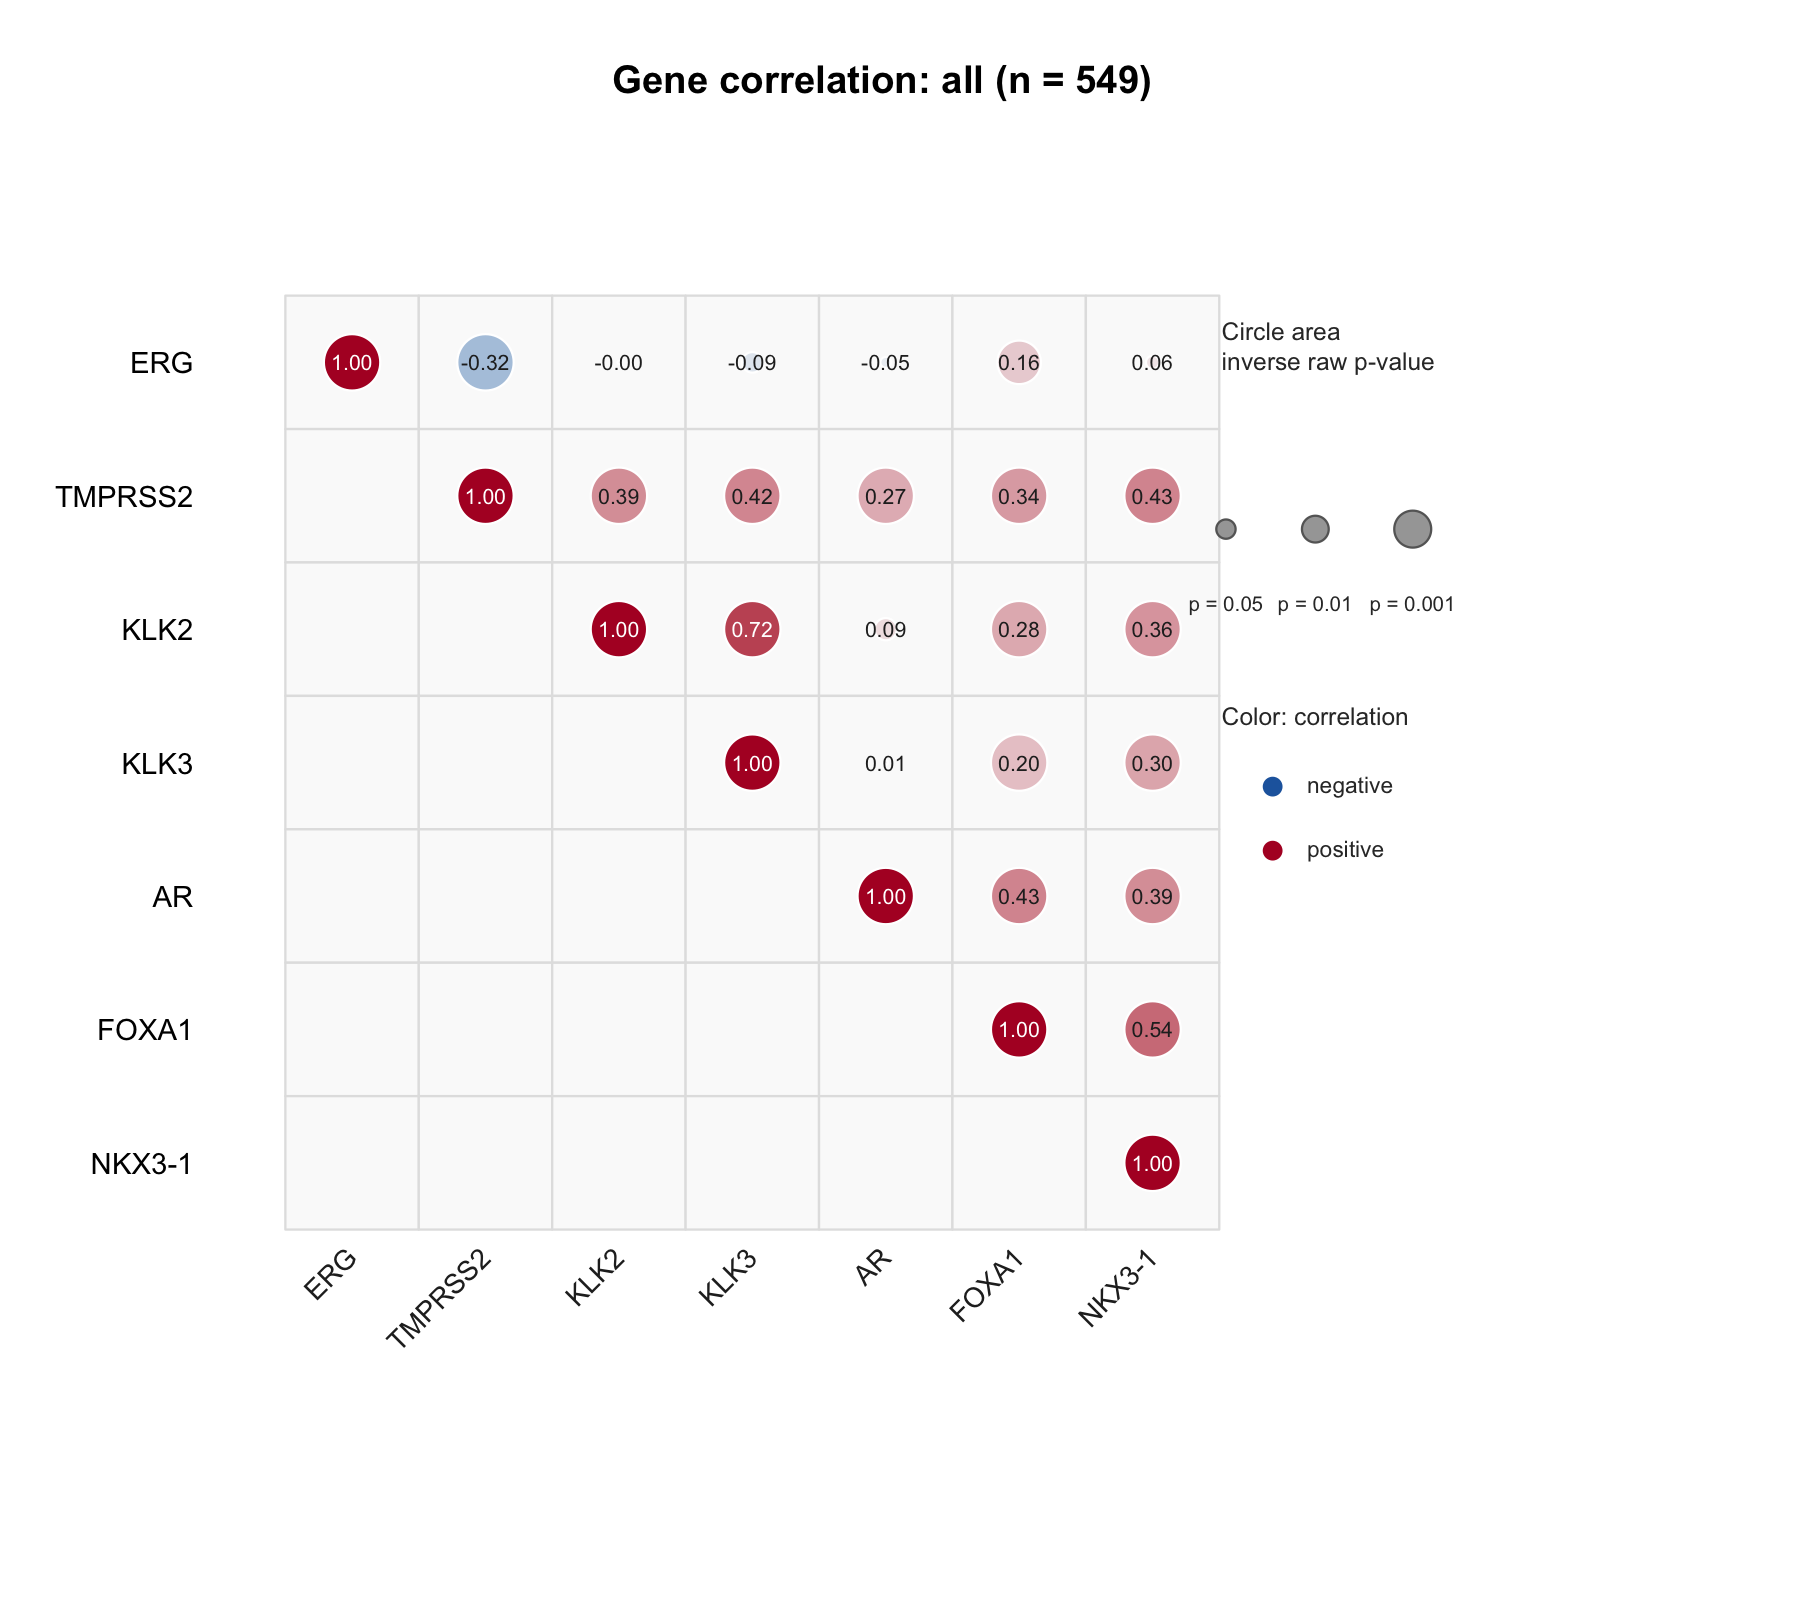
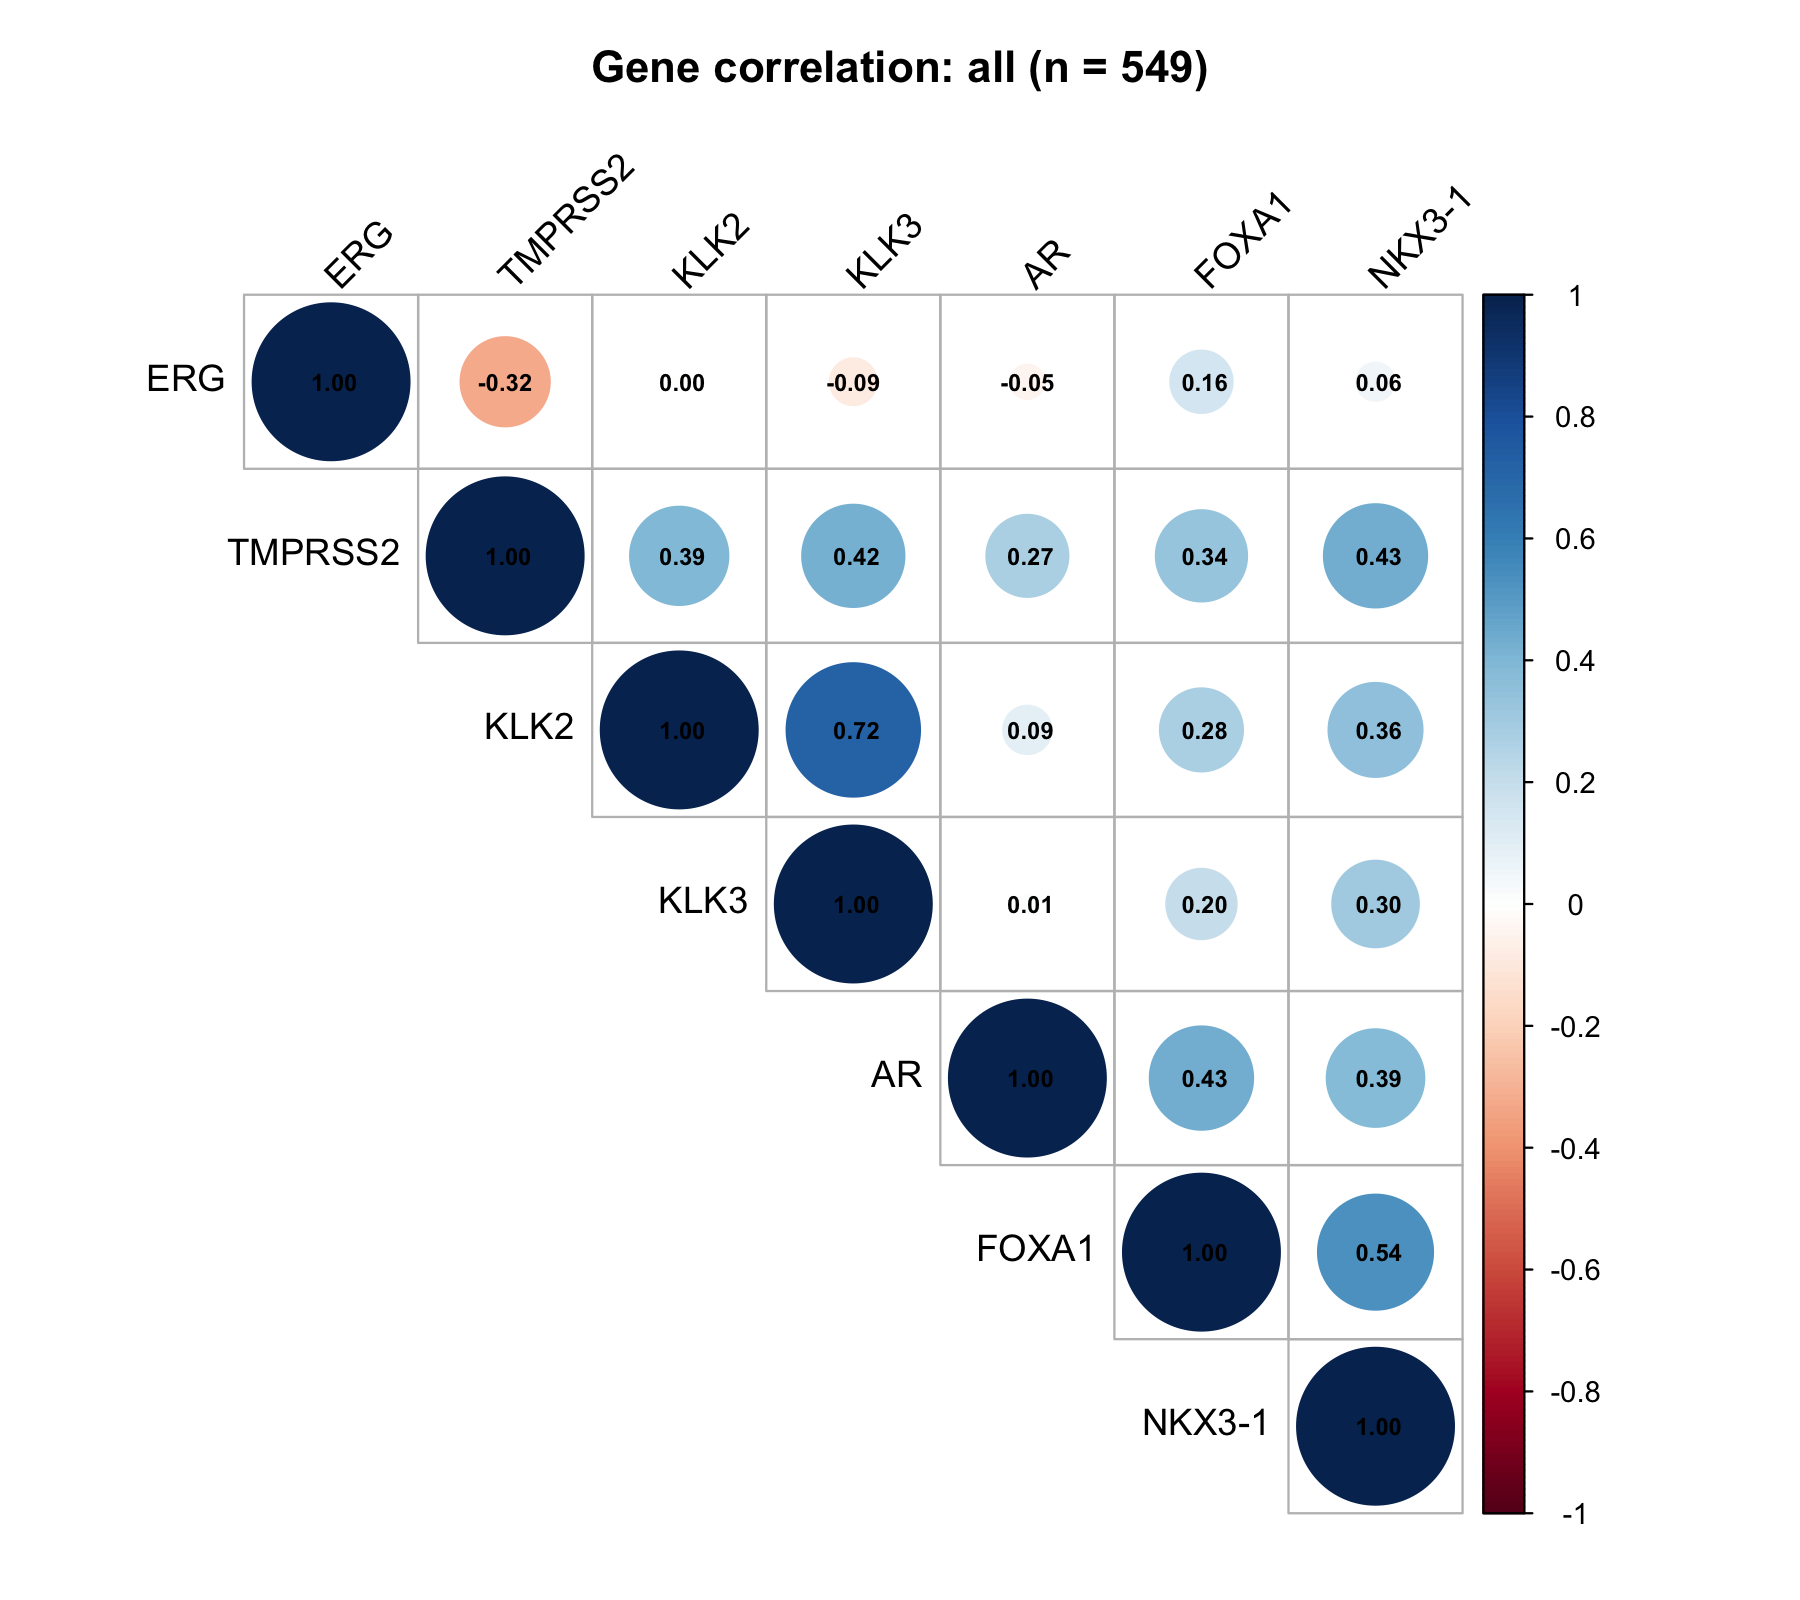
Restore clean correlation bubble output

diff --git a/README.md b/README.md
@@ -6,7 +6,7 @@ This is a standalone application for command-line, HPC, and future OncoChat use.
 
 ## Example output from real data
 
-The figure below was generated with normalized bulk RNA-seq expression from the public [TCGA-PRAD project](https://portal.gdc.cancer.gov/projects/TCGA-PRAD). It shows pooled Spearman correlations across 549 matched samples for a small prostate-expression panel (`AR`, `FOXA1`, `KLK2`, `KLK3`, `NKX3-1`, `TMPRSS2`, and `ERG`). In the bubble panel, circle area encodes inverse raw p-value, color encodes signed correlation, and the printed number is the correlation coefficient. This is a workflow demonstration, not a prognostic or clinical claim.
+The figure below was generated with normalized bulk RNA-seq expression from the public [TCGA-PRAD project](https://portal.gdc.cancer.gov/projects/TCGA-PRAD). It shows pooled Spearman correlations across 549 matched samples for a small prostate-expression panel (`AR`, `FOXA1`, `KLK2`, `KLK3`, `NKX3-1`, `TMPRSS2`, and `ERG`). This is a workflow demonstration, not a prognostic or clinical claim.
 
 | Circle / bubble view (default) | Square view (`--heatmap-style square`) |
 | --- | --- |
@@ -24,13 +24,13 @@ Gene symbols are normalized with L2P by default in the container. Use `--update-
 
 ## Run with Docker
 
-Pull the published AMD64 image:
+Pull the current published AMD64 image:
 
 ```bash
-docker pull ghcr.io/nidap-community/multi-correlation-analysis:v0.1.1
+docker pull ghcr.io/nidap-community/multi-correlation-analysis:v0.1.0
 ```
 
-`v0.1.1` is the reproducible release tag for the selectable circle/bubble and square heatmap styles. `latest` is provided for convenience.
+`v0.1.0`, `latest`, and `52f5c9f` currently resolve to the validated release image. The `v0.1.1` source release candidate adds the selectable circle/bubble and square heatmap styles; its public image will be published only after final container validation.
 
 Build a local AMD64 image:
 
@@ -60,7 +60,7 @@ docker run --rm --platform linux/amd64 \
 
 `--categories all` analyzes every selected sample in addition to any named category. `--samples` accepts a comma-separated list or a file with one sample ID per line. For duplicate gene rows, use `sum` for RNA-seq-style counts and `max` for probe-style microarray data.
 
-`--heatmap-style circle` is the default bubble view: circle area represents inverse raw p-value (smaller circles indicate larger p-values), color represents the signed correlation, and the printed value is the correlation coefficient. Its size key is shown by default; use `--show-significance false` to hide that key without changing the bubbles. Use `--heatmap-style square` for the same data and coefficient labels in a colored-square matrix. Both retain the correlation-based gene ordering. The Benjamini-Hochberg FDR matrix is always written as a separate output.
+`--heatmap-style circle` is the default bubble view: circle area represents correlation magnitude and color represents direction. Use `--heatmap-style square` for the same data and labels in a colored-square matrix. Both retain the correlation-based gene ordering and coefficient labels. The Benjamini-Hochberg FDR matrix is always written as a separate output.
 
 ## Input file formats
 
@@ -139,12 +139,12 @@ singularity run \
 
 ## Container contract
 
-The published `v0.1.1` image targets `linux/amd64`, uses `/data` as read-only input, and uses `/output` as writable output. It passed `container/smoke_test.sh` with the included representative fixture before publication.
+The `v0.1.1` release candidate targets `linux/amd64`, uses `/data` as read-only input, and uses `/output` as writable output. Its public image will be published after `container/smoke_test.sh` completes on the final source revision.
 
 ## Requirements
 
 - R 4.5.x (the container uses `rocker/r-ver:4.5.2`)
-- `corrplot` for the square correlation heatmap; the default p-value bubble plot uses base R graphics
+- `corrplot` for circle/bubble or square correlation heatmaps; a base-R heatmap fallback is available
 - L2P for automatic gene-symbol updates
 - Docker, Apptainer, or Singularity for container execution
 

diff --git a/docs/examples/tcga-prad-7gene-panel.md b/docs/examples/tcga-prad-7gene-panel.md
@@ -40,4 +40,4 @@ Rscript --vanilla entrypoint.R \
   --output-dir results/tcga-prad-seven-gene-panel
 ```
 
-The identical analysis was also run with `--heatmap-style square` into a separate output directory. In the default circle figure, circle area encodes inverse raw p-value, color encodes signed correlation, and the printed number is the correlation coefficient. The README contains the derived pooled-category figure from each run and no input data. The full output contract also includes category-specific correlation, p-value, and Benjamini-Hochberg FDR matrices.
+The identical analysis was also run with `--heatmap-style square` into a separate output directory. The README contains the derived pooled-category figure from each run and no input data. The full output contract also includes category-specific correlation, p-value, and Benjamini-Hochberg FDR matrices.

diff --git a/container/README.md b/container/README.md
@@ -14,4 +14,4 @@ container/smoke_test.sh multi-correlation-analysis:local
 
 The scripts use BuildKit and accept `DOCKER_CA_CERT=/path/to/trusted-root.pem` on HTTPS-inspecting networks. The PEM is mounted only as a build secret and is never retained in the image.
 
-The validated public image is available as `ghcr.io/nidap-community/multi-correlation-analysis:v0.1.1`. It targets `linux/amd64`; `latest` is provided for convenience, while `v0.1.1` is the reproducible release tag.
+The currently validated public image is `ghcr.io/nidap-community/multi-correlation-analysis:v0.1.0`. It targets `linux/amd64`; `latest` is provided for convenience. The `v0.1.1` candidate will be published after final container validation.

diff --git a/CHANGELOG.md b/CHANGELOG.md
@@ -3,7 +3,6 @@
 ## 0.1.1 — 2026-10-25
 
 - Adds a selectable correlation-heatmap style: the circle/bubble view is now the default, and `--heatmap-style square` retains the colored-square alternative.
-- In the default circle/bubble view, circle area now encodes inverse raw p-value, color encodes signed correlation, and printed labels retain the correlation coefficient. An in-plot size key can be hidden explicitly.
 - Fixes the default `max` duplicate-gene policy so its representative row retains the original sample-column names.
 
 ## 0.1.0 — 2026-10-25
